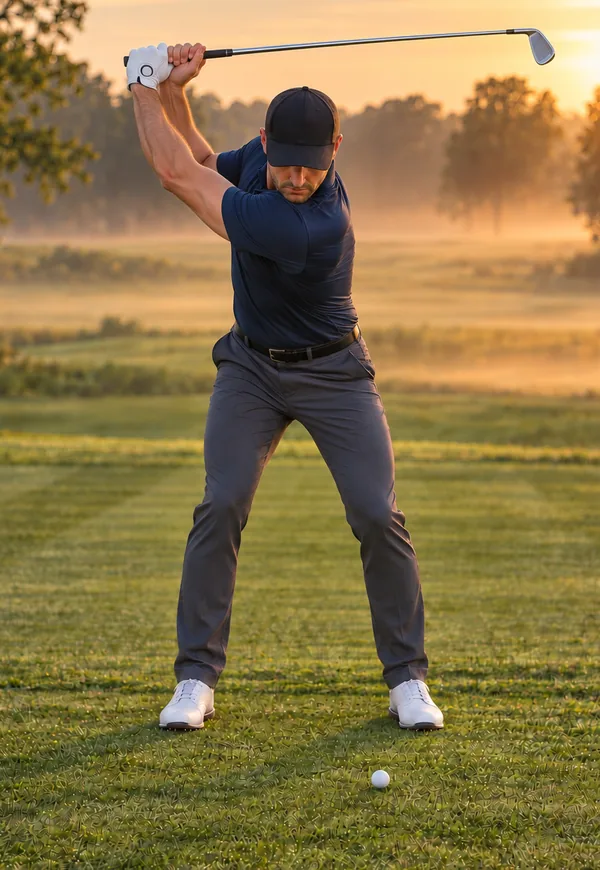
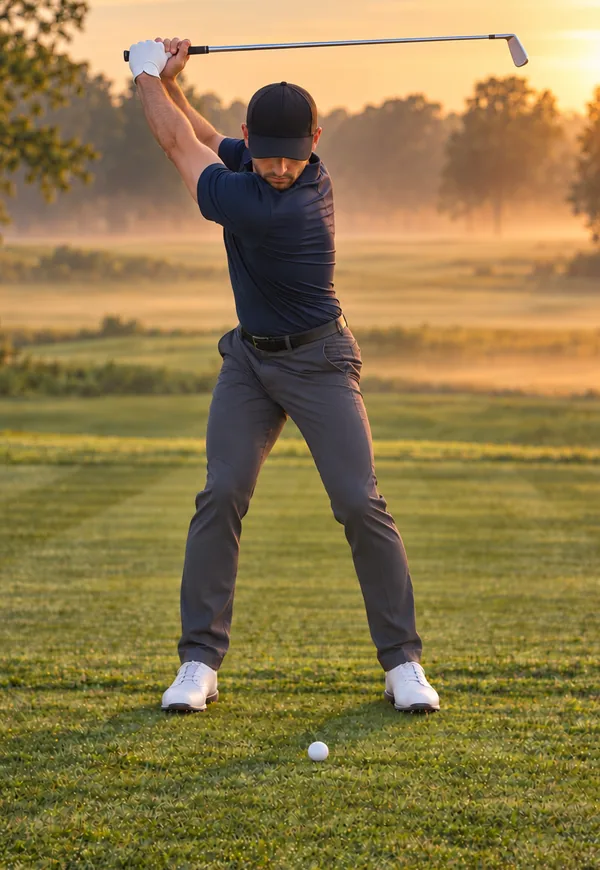
Prototype: A06 redone with a full shoulder turn
Claude-Session: https://claude.ai/code/session_01R6W2BwfFPEbcfuN3XHUaCT

diff --git a/art-data.js b/art-data.js
@@ -6,4 +6,4 @@ export const FDIR = "art/f1/";
 export const FAULTS = {"stance":{"w":162,"h":400,"v":"face","g":[["line",[116.5,359.6],[116.5,148.1],"g"],["line",[31.7,359.5],[31.7,148.1],"g"]],"b":[["line",[116.5,359.6],[116.5,148.1],"b"],["line",[31.7,359.5],[31.7,148.1],"b"]]},"chipstance":{"w":202,"h":400,"v":"face","g":[["line",[122.6,359.4],[71.7,359.4],"g"]],"b":[["line",[162.8,359.4],[31.4,359.4],"b"]]},"ballpos":{"w":174,"h":400,"v":"face","g":[["line",[74.6,346.7],[74.6,281.3],"g"],["text",[74.6,371.2],"middle","g"]],"b":[["line",[74.6,346.7],[74.6,281.3],"n"],["text",[99.7,388.8],"too far forward","b"]]},"hinge":{"w":245,"h":400,"v":"dtl","g":[["line",[38.5,185.7],[108.5,92.4],"g"]],"b":[["line",[52.8,176.6],[81.9,62.8],"b"]]},"knees":{"w":254,"h":400,"v":"dtl","g":[["ring",[76.4,265.0],15.0,"g"]],"b":[["ring",[55.2,255.1],15.0,"b"]]},"reach":{"w":273,"h":400,"v":"dtl","g":[["line",[104.3,237.2],[104.3,55.8],"g"]],"b":[["line",[105.6,237.2],[105.6,55.8],"b"]]},"weightset":{"w":228,"h":400,"v":"face","g":[["line",[84.4,357.4],[84.4,-1.7],"n"],["arrow",[91.6,91.3],[129.8,91.3],"g"],["text",[151.0,78.5],"65%","g"]],"b":[["line",[84.4,357.4],[84.4,-1.7],"n"]]},"tilt":{"w":162,"h":400,"v":"face","g":[["line",[142.4,83.5],[5.8,88.3],"g"]],"b":[["line",[145.7,88.2],[8.9,83.1],"b"]]},"handsahead":{"w":161,"h":400,"v":"face","g":[["line",[82.7,354.9],[82.7,191.6],"g"]],"b":[["line",[59.0,355.4],[59.0,191.7],"b"]]},"forearms":{"w":266,"h":400,"v":"dtl","g":[],"b":[["ring",[130.6,147.2],18.0,"b"]]},"heels":{"w":279,"h":400,"v":"dtl","g":[["line",[118.3,373.5],[118.3,64.1],"g"]],"b":[["line",[96.3,373.5],[96.3,64.1],"b"]]},"arms":{"w":225,"h":400,"v":"face","g":[["text",[74.2,12.3],"chest turned","g"]],"b":[["text",[78.8,14.6],"chest still square","b"]]},"sway":{"w":263,"h":400,"v":"face","g":[["line",[114.6,267.1],[114.6,107.4],"g"]],"b":[["line",[114.6,267.1],[114.6,107.4],"b"]]},"posture":{"w":165,"h":400,"v":"face","g":[["line",[13.4,26.9],[174.8,26.9],"g"]],"b":[["line",[13.4,26.9],[174.8,26.9],"b"]]},"feet":{"w":206,"h":400,"v":"face","g":[["ring",[145.4,362.1],25.7,"g"]],"b":[["ring",[145.4,362.1],27.8,"b"]]},"stayleft":{"w":167,"h":400,"v":"face","g":[["line",[77.5,359.0],[77.5,1.3],"n"],["arrow",[100.7,94.5],[138.8,94.5],"g"]],"b":[["line",[77.5,359.0],[77.5,1.3],"n"]]},"transfer":{"w":250,"h":400,"v":"face","g":[["line",[189.0,377.8],[189.0,13.6],"g"]],"b":[["line",[189.0,377.8],[189.0,13.6],"b"]]},"upper":{"w":174,"h":400,"v":"face","g":[["line",[85.8,380.8],[85.8,-43.3],"g"]],"b":[["line",[87.9,379.1],[87.9,-42.3],"b"]]},"flip":{"w":181,"h":400,"v":"face","g":[["line",[110.8,202.2],[78.8,375.2],"g"]],"b":[["line",[80.4,186.0],[154.8,366.5],"b"]]},"vshape":{"w":159,"h":400,"v":"face","g":[["poly",[[112.4,90.0],[27.5,94.8],[70.9,196.1]],"g"]],"b":[["poly",[[112.4,90.0],[27.5,94.8],[69.8,192.0]],"b"]]},"setup-steps":{"w":162,"h":400,"v":"face","g":[]},"chip-steps":{"w":141,"h":400,"v":"face","g":[]},"aim":{"w":263,"h":400,"v":"dtl","g":[["line",[245.6,380.5],[211.5,307.5],"n"]]},"driver-up":{"w":163,"h":400,"v":"face","g":[["arrow",[42.6,370.3],[123.1,328.9],"g"]]},"bunker":{"w":202,"h":400,"v":"face","g":[]}};
 // Photographic demonstrations (generated images, guides placed per photo in pixels)
 export const PDIR = "art/p1/";
-export const PHOTO = {"transfer":{"type":"sequence","live":3,"frames":[{"f":"transfer-A01.webp","w":600,"h":870,"label":"Setup","sub":"Balanced, a little more on the left foot","g":[["vline",[420.8,703.5],[420.8,97.5]],["weight",[188.2,816.0],[420.8,816.0],55]]},{"f":"transfer-A06.webp","w":600,"h":870,"label":"Top","sub":"Weight on the right foot","g":[["vline",[426.0,720.8],[426.0,97.5]],["weight",[186.8,833.2],[426.0,833.2],25]]},{"f":"transfer-A10.webp","w":600,"h":870,"label":"Impact","sub":"Moving onto the left foot","g":[["vline",[426.0,717.0],[426.0,97.5]],["weight",[156.0,829.5],[426.0,829.5],80]]},{"f":"transfer-A16.webp","w":600,"h":870,"label":"Finish","sub":"On the left foot, facing the target","g":[["vline",[380.2,693.0],[380.2,97.5]],["weight",[212.2,805.5],[380.2,805.5],95]]}]}};
+export const PHOTO = {"transfer":{"type":"sequence","live":3,"frames":[{"f":"transfer-A01.webp","w":600,"h":870,"label":"Setup","sub":"Balanced, a little more on the left foot","g":[["vline",[420.8,703.5],[420.8,97.5]],["weight",[188.2,816.0],[420.8,816.0],55]]},{"f":"transfer-A06.webp","w":600,"h":870,"label":"Top","sub":"Weight on the right foot","g":[["vline",[422.2,703.5],[422.2,97.5]],["weight",[189.8,816.0],[422.2,816.0],25]]},{"f":"transfer-A10.webp","w":600,"h":870,"label":"Impact","sub":"Moving onto the left foot","g":[["vline",[426.0,717.0],[426.0,97.5]],["weight",[156.0,829.5],[426.0,829.5],80]]},{"f":"transfer-A16.webp","w":600,"h":870,"label":"Finish","sub":"On the left foot, facing the target","g":[["vline",[380.2,693.0],[380.2,97.5]],["weight",[212.2,805.5],[380.2,805.5],95]]}]}};
